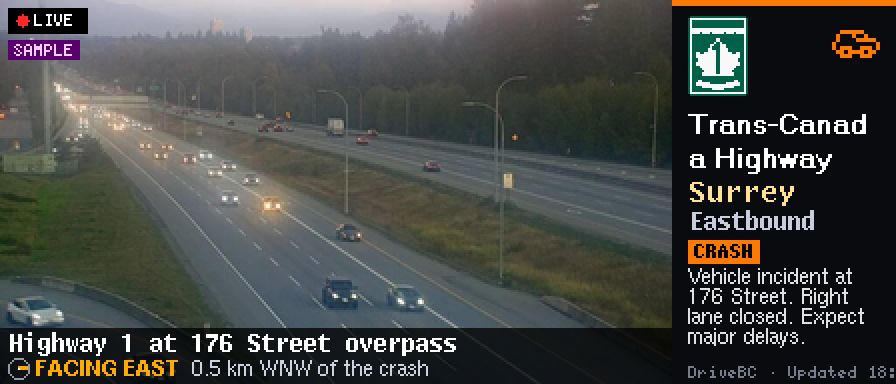
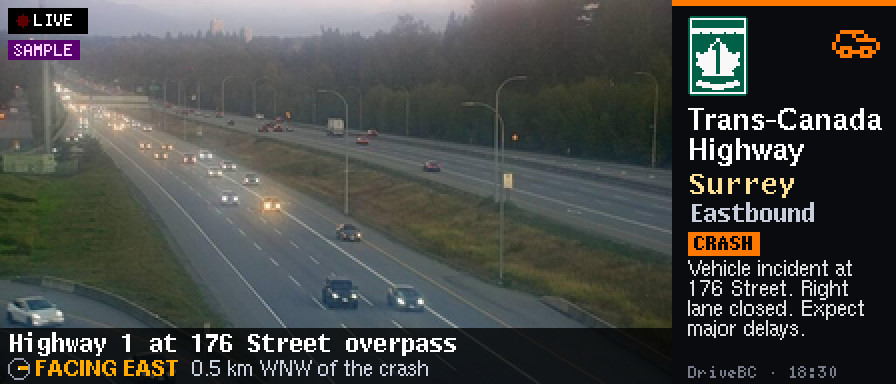
DriveBC camera page: road name wraps on word boundaries, footer fits (#5)
## What and why

On the DriveBC **camera** page the details column beside the still is
112 px wide. The road name broke mid-word ("Trans-Canad / a Highway")
and the footer was cut off at the right edge ("Updated 18:").

- `bc_kit.fit_text` now picks the largest font that fits the box
**without splitting a word**. If no font in the ladder manages that, it
falls back to the old behaviour. A word that is still too wide gets
split, never cut.
- The road-name ladder in `_panel` gains `h14` (helvB14, approved,
X11/MIT), so "Trans-Canada" (97 px) fits on one line in the 98 px
column.
- The footer tries `DriveBC · Updated HH:MM`, then `DriveBC · HH:MM`,
then just the time, and uses the first one that fits. The 170 px map
column keeps the full line.

## How it was tested

- `python -m tools.readme media bc` on the server from a scratch clone
of this branch. `tools.readme check` passes.
- To check `fit_text` on the other screens, I re-rendered the bc group
with only that change reverted. Every other sample came out the same
apart from clock and animation frames, so I committed only the roads
media.
- `pytest` in the server's tools venv: 50 passed. One failure,
`hub.weather.tracks` import, is because `shapely` is missing from that
venv; it is unrelated to this change, and CI runs the full suite.

## Before / after

| Before | After |
|---|---|
|
![before](https://raw.githubusercontent.com/clioscott/bigscreen/a671d17/docs/media/bc-roads-camera.png)
|
[…]

Changed region(s): [[0.75, 0.2812, 1.0, 0.9062], [0.875, 0.9375, 1.0, 1.0], [0.0, 0.0312, 0.0312, 0.0625]]

diff --git a/display/modules/bc_kit.py b/display/modules/bc_kit.py
@@ -198,18 +198,27 @@ def draw_fit(c, lines, x, y):
 
 
 def fit_text(c, s, x, y, w, h, roles, col, centre=False, line_gap=1):
-    """One paragraph in the largest role that fits the box; returns the height used."""
+    """One paragraph in the largest role that fits the box without splitting a word (else the largest that fits
+    the box at all, else the last); returns the height used."""
+    if not roles:
+        return 0
+    words = str(s or "").split()
+    pick_ = fallback = None
     for r in roles:
         f = font(r)
         lines = wrap(f, s, w)
-        if len(lines) * (f.h + line_gap) - line_gap <= h or r == roles[-1]:
-            for i, ln in enumerate(lines):
-                ty = y + i * (f.h + line_gap)
-                if ty + f.h > y + h + 2:
-                    break
-                (text_c(c, f, x + w // 2, ty, col, ln) if centre else text(c, f, x, ty, col, ln))
-            return len(lines) * (f.h + line_gap) - line_gap
-    return 0
+        if len(lines) * (f.h + line_gap) - line_gap <= h:
+            if all(tw(f, wd) <= w for wd in words):
+                pick_ = (f, lines)
+                break
+            fallback = fallback or (f, lines)
+    f, lines = pick_ or fallback or (font(roles[-1]), wrap(font(roles[-1]), s, w))
+    for i, ln in enumerate(lines):
+        ty = y + i * (f.h + line_gap)
+        if ty + f.h > y + h + 2:
+            break
+        (text_c(c, f, x + w // 2, ty, col, ln) if centre else text(c, f, x, ty, col, ln))
+    return len(lines) * (f.h + line_gap) - line_gap
 
 
 # ------------------------------------------------------------------------------------------------ shapes

diff --git a/display/modules/bc_roads.py b/display/modules/bc_roads.py
@@ -477,7 +477,7 @@ def _panel(c, item, x, w, h_shield=56, big=True):
     big_icon(c, item, x + w - 32, y + 2, col)
     y += h_shield + 6
     if item.get("highways"):                               # (a street blade already names the road)
-        y += k.fit_text(c, item.get("road") or "", x + 8, y, w - 14, 34, ("h18", "h16", "lutb12", "hvb10"), WHITE) + 3
+        y += k.fit_text(c, item.get("road") or "", x + 8, y, w - 14, 34, ("h18", "h16", "h14", "lutb12", "hvb10"), WHITE) + 3
     if area_of(item):
         y += k.fit_text(c, area_of(item), x + 8, y, w - 14, 16, ("lutb14", "lutb12", "hvb10"), (255, 225, 150)) + 2
     if item.get("direction"):
@@ -488,7 +488,11 @@ def _panel(c, item, x, w, h_shield=56, big=True):
     lines_, _ = k.fit(_desc(item), w - 16, H - y - 14,
                       [{"body": "lut12", "small": "hv10"}, {"body": "hv10", "small": "s8"}, {"body": "s8", "small": "s8"}])
     k.draw_fit(c, lines_, x + 8, y)
-    k.text(c, k.font("s8"), x + 8, H - 10, (120, 125, 140), f"DriveBC · {_updated(item)}")
+    fs = k.font("s8")
+    t = k.day_hhmm(item.get("updated"))
+    tries = (f"DriveBC · Updated {t}", f"DriveBC · {t}", t) if t else ("DriveBC",)
+    foot = next((v for v in tries if k.tw(fs, v) <= w - 12), tries[-1])   # the narrow camera column drops "Updated"
+    k.text(c, fs, x + 8, H - 10, (120, 125, 140), foot)
 
 
 def _map(s, c, item, now, el):
